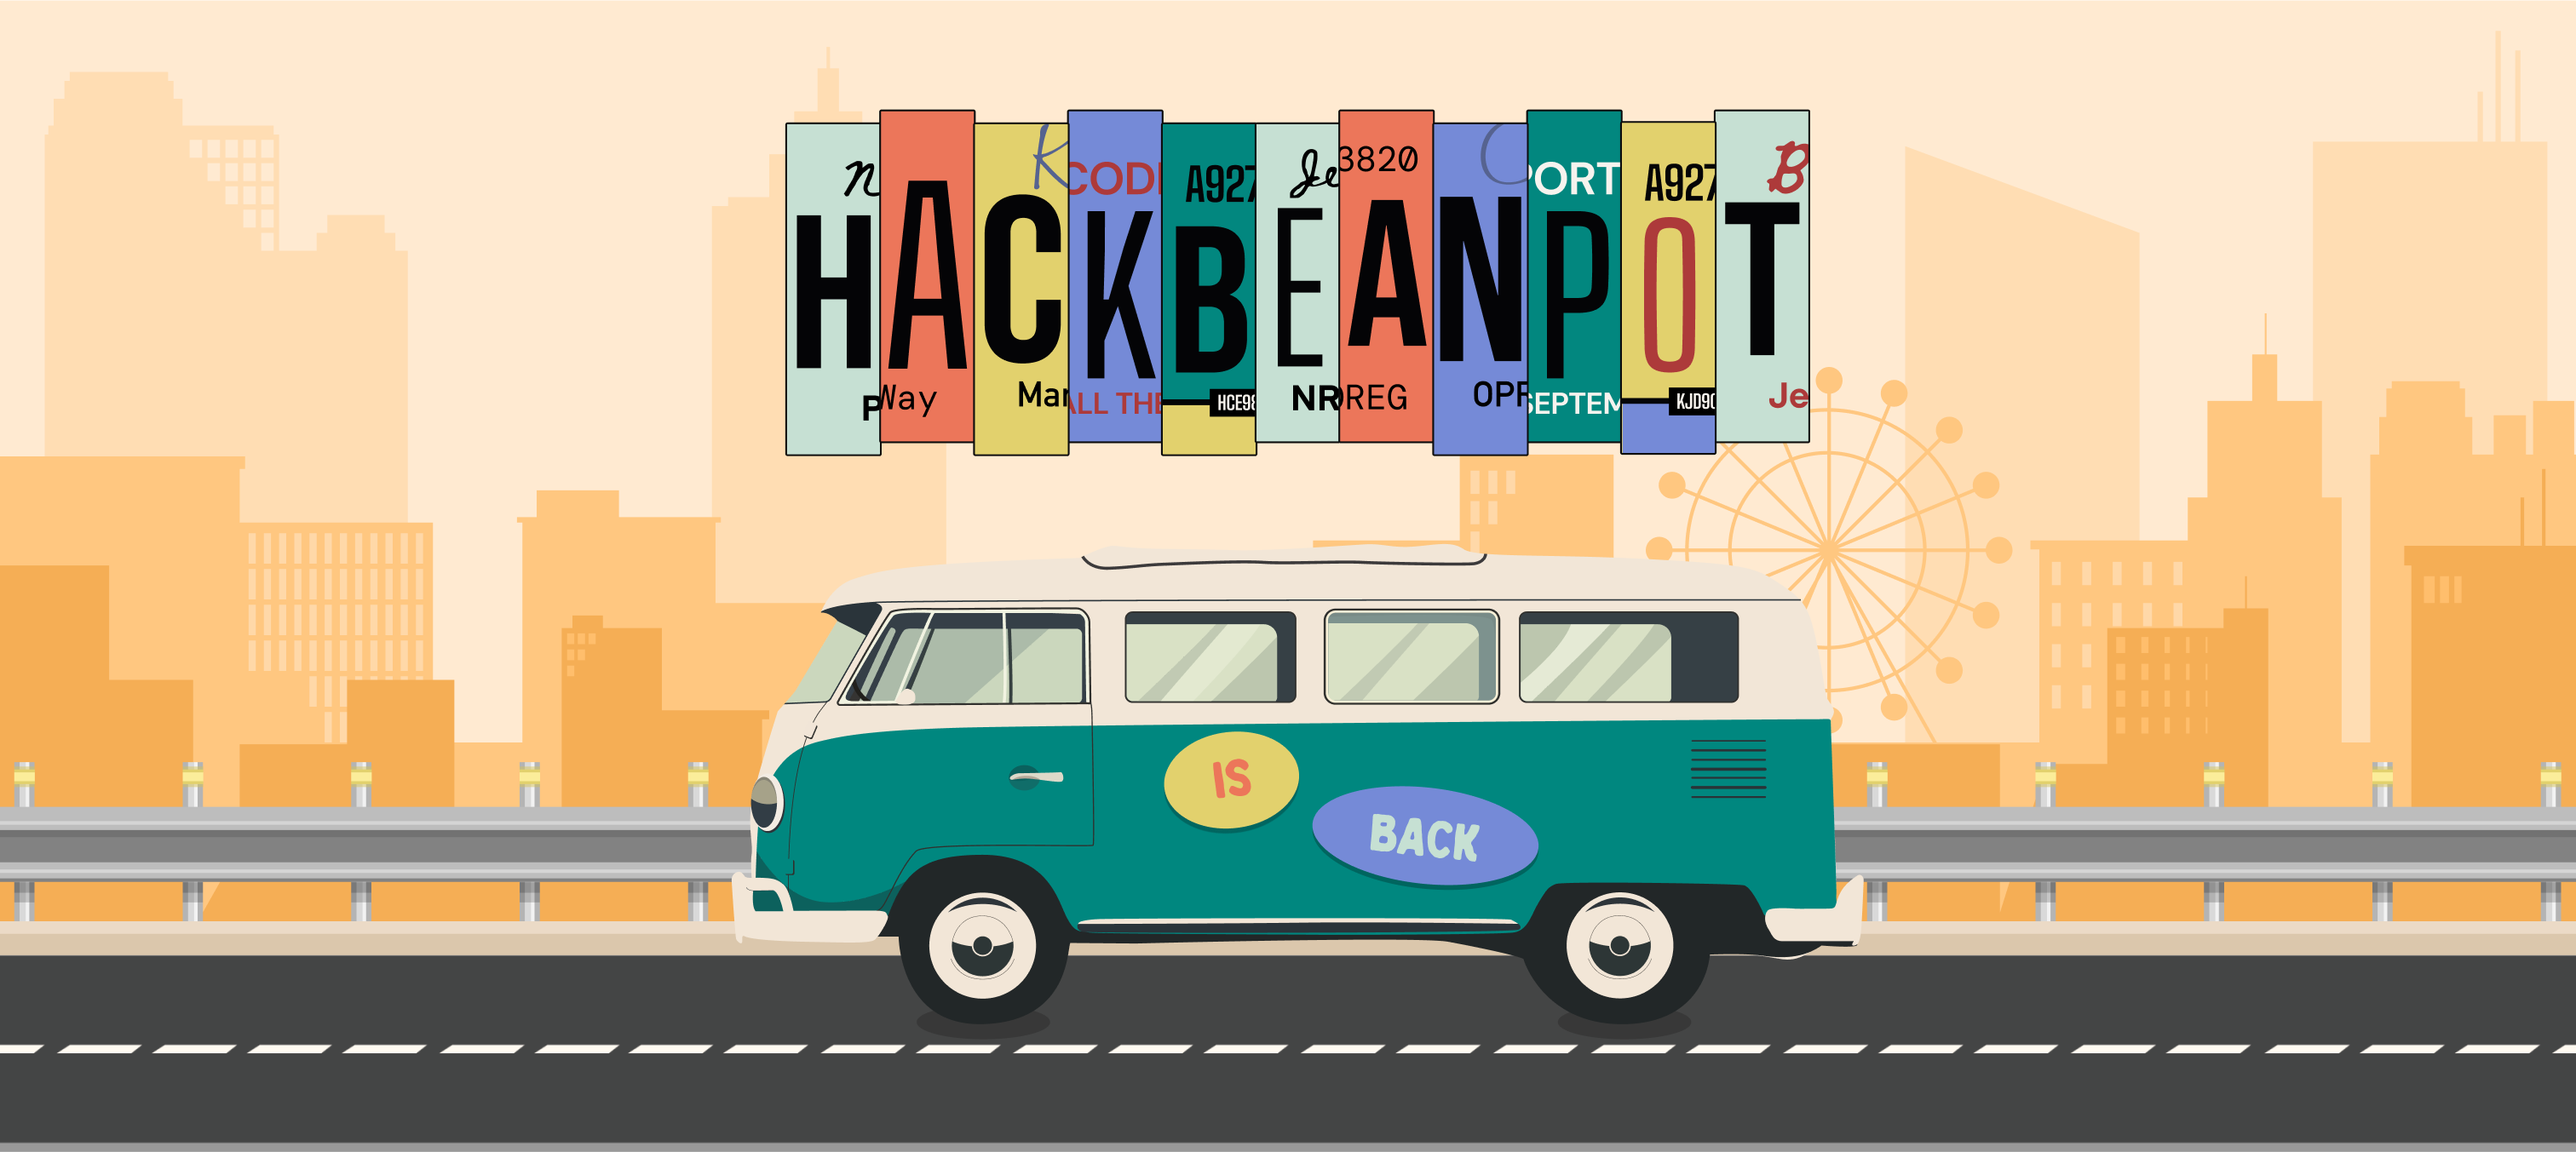
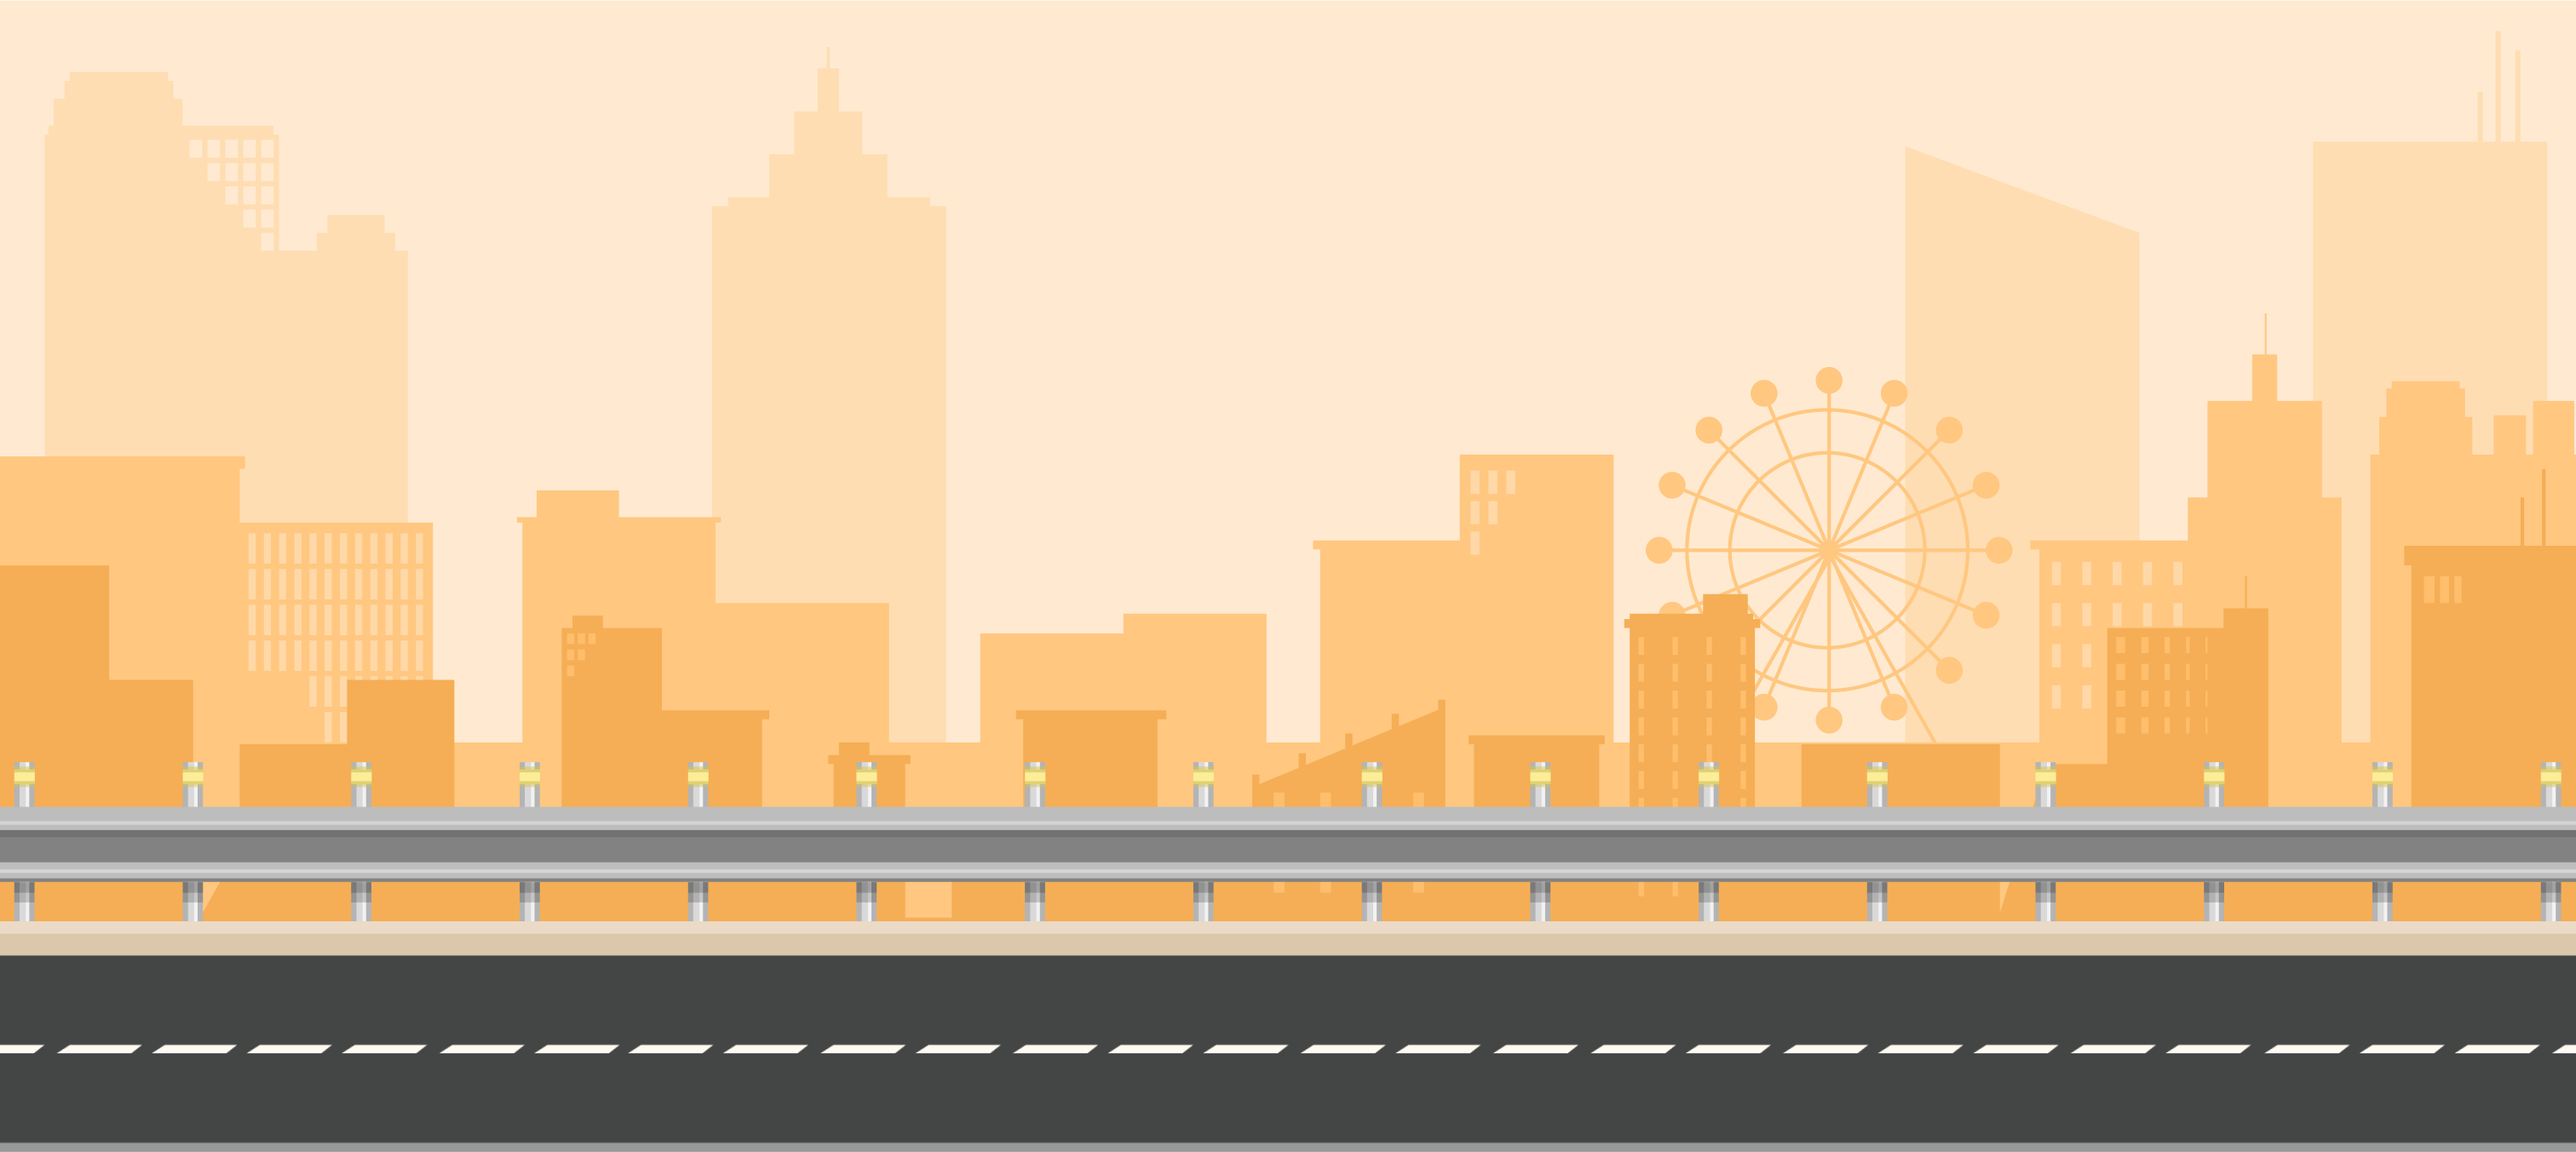
Made bus and lisence plate in the foreground

Changed region(s): [[0.2798, 0.4656, 0.746, 0.9002], [0.2798, 0.0931, 0.7149, 0.4035]]

diff --git a/apps/main/src/app/(landing)/Sections/Landing.tsx b/apps/main/src/app/(landing)/Sections/Landing.tsx
@@ -11,26 +11,44 @@ export default function Landing(): JSX.Element {
   );
 
   const content = (
-    <div className="w-full h-full flex gap-2 items-start justify-end p-5">
-      <ExternalLink href="https://www.instagram.com/hackbeanpot/?hl=en">
+    <div className="relative w-full h-full flex flex-col justify-center items-center gap-4">
+      <div className="flex flex-col items-center">
         <Image
-          alt="InstagramLogo"
-          src="/instagram_logo.png"
-          width={40}
-          height={40}
+          alt="LisencePlate"
+          src="/lisence_plate.png"
+          width={400}
+          height={200}
+          className="w-[35vw] h-auto max-w-[600px] min-w-[150px]"
         />
-      </ExternalLink>
-      <ExternalLink href="https://www.linkedin.com/company/hackbeanpot-inc/posts/?feedView=all">
         <Image
-          alt="LinkedinLogo"
-          src="/linkedin_logo.png"
-          width={40}
-          height={40}
+          alt="Bus"
+          src="/bus.png"
+          width={400}
+          height={200}
+          className="w-[35vw] h-auto max-w-[600px] min-w-[200px] mt-20"
         />
-      </ExternalLink>
-      <ExternalLink href="">
-        <Image alt="EmailLogo" src="/email_logo.png" width={40} height={40} />
-      </ExternalLink>
+      </div>
+      <div className="absolute top-5 right-5 flex gap-2">
+        <ExternalLink href="https://www.instagram.com/hackbeanpot/?hl=en">
+          <Image
+            alt="InstagramLogo"
+            src="/instagram_logo.png"
+            width={40}
+            height={40}
+          />
+        </ExternalLink>
+        <ExternalLink href="https://www.linkedin.com/company/hackbeanpot-inc/posts/?feedView=all">
+          <Image
+            alt="LinkedinLogo"
+            src="/linkedin_logo.png"
+            width={40}
+            height={40}
+          />
+        </ExternalLink>
+        <ExternalLink href="">
+          <Image alt="EmailLogo" src="/email_logo.png" width={40} height={40} />
+        </ExternalLink>
+      </div>
     </div>
   );
 
